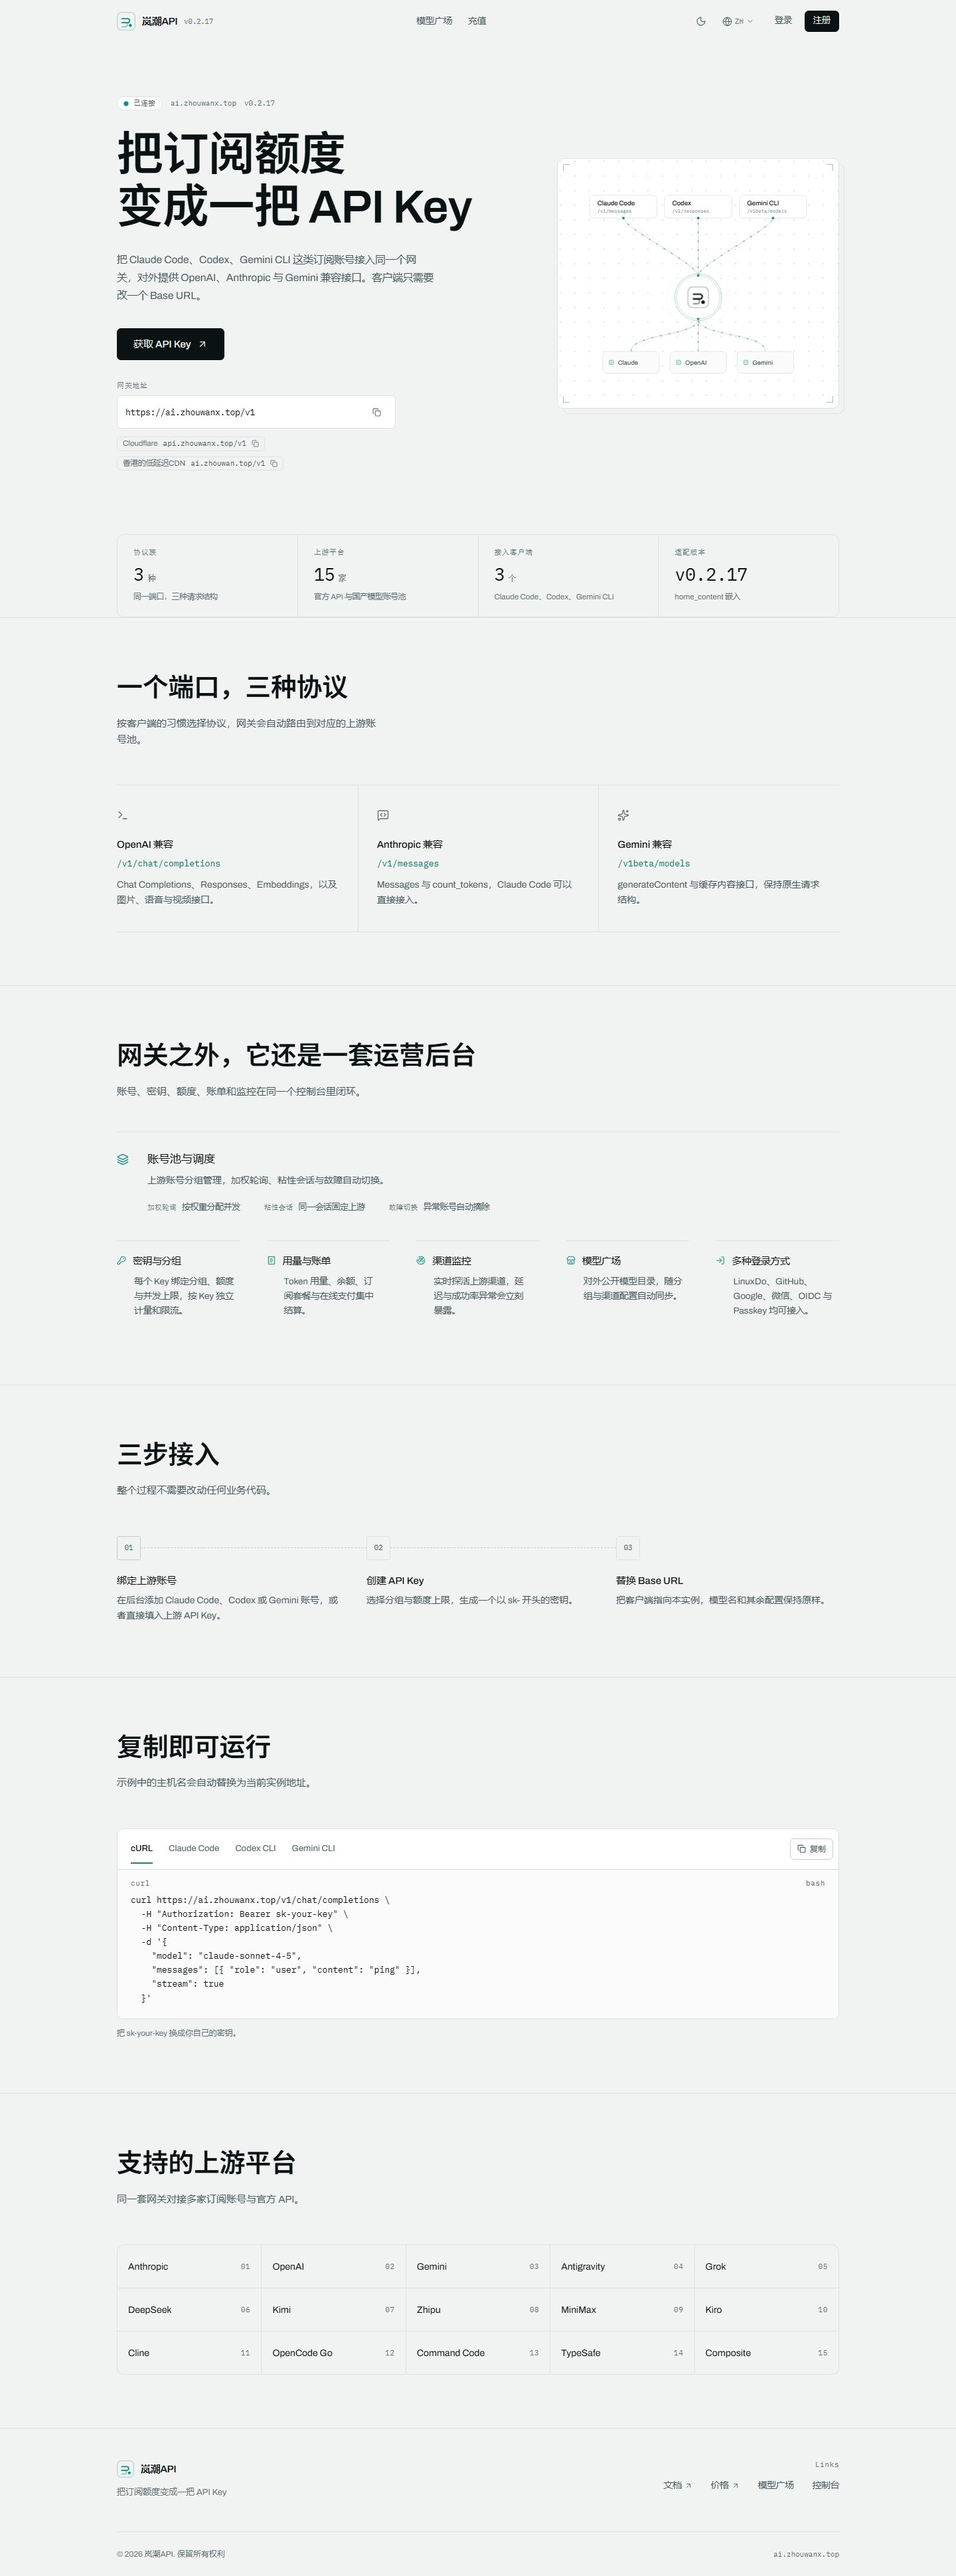
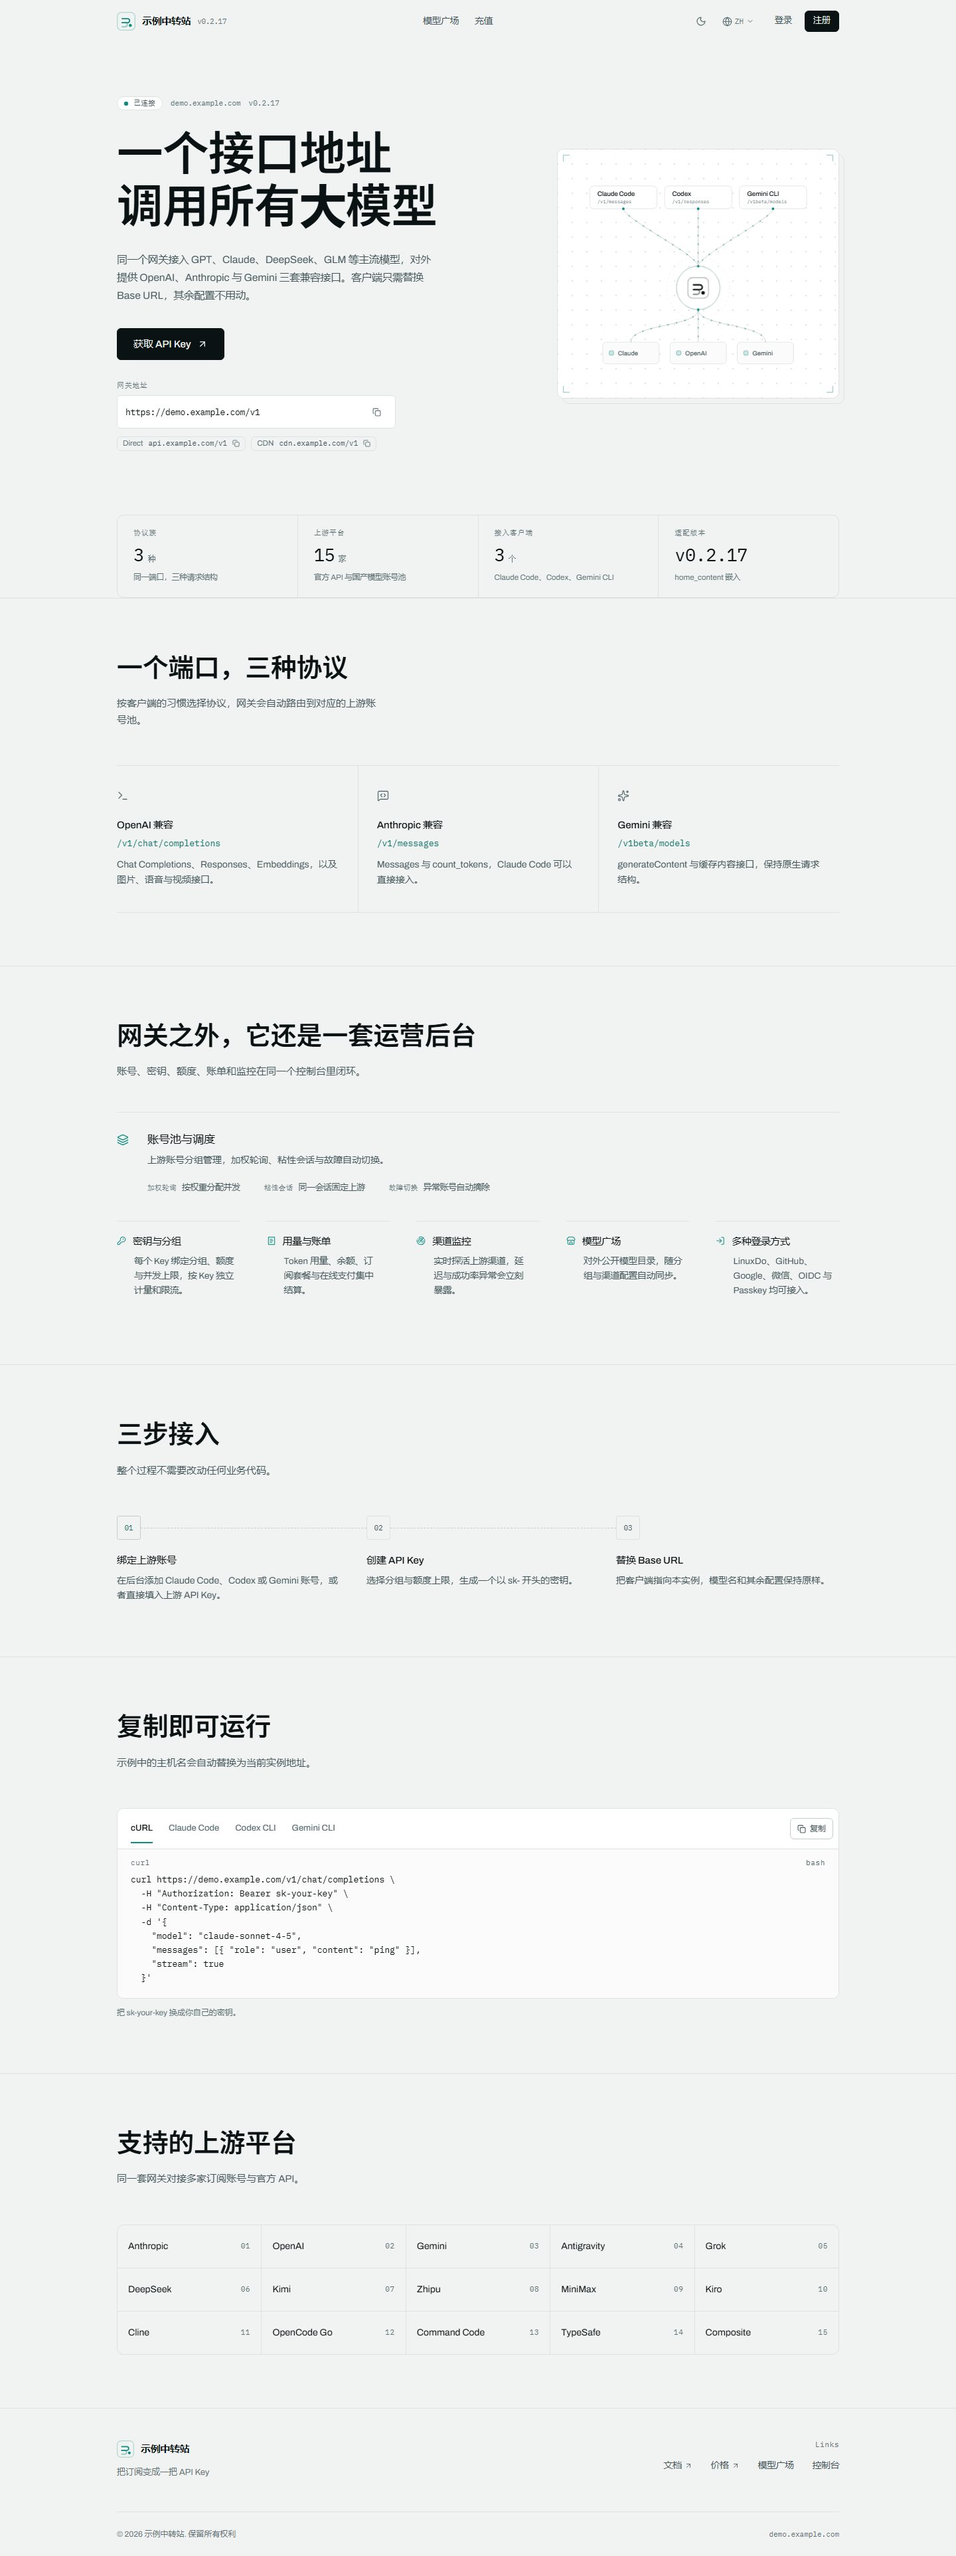
feat(copy): lead with the endpoint, not with a subscription
"把订阅额度 / 变成一把 API Key" is Sub2API's own pitch: it is addressed
to someone who already holds Claude Code / Codex / Gemini CLI seats and
wants to turn them into an API. This instance sells models by the token,
so a visitor arriving from the plaza has no subscription to convert and
the headline describes the wrong product.

The new line names what the reader gets instead: one endpoint, every
model. The lead loses the same framing — its first clause used to tell
the reader to plug in their subscription accounts, which contradicted
the headline directly below it. It now lists the model families actually
in the catalogue and keeps the one concrete benefit (swap a base URL).

Meta descriptions follow in all three locales. Screenshots regenerate;
the docs script now fast-forwards CSS animations so the hero schematic
is never captured half-drawn.

diff --git a/src/i18n/ja.ts b/src/i18n/ja.ts
@@ -3,7 +3,7 @@ import type { Dict } from './zh'
 export const ja: Dict = {
   meta: {
     title: 'Sub2API',
-    description: 'サブスクリプションをひとつの API にまとめるセルフホスト型ゲートウェイ',
+    description: 'GPT・Claude・DeepSeek・GLM をひとつの API で使えるゲートウェイ',
   },
   nav: {
     docs: 'ドキュメント',
@@ -19,8 +19,8 @@ export const ja: Dict = {
     close: '閉じる',
   },
   hero: {
-    titleLines: ['サブスクリプションを、', 'ひとつの API キーに'],
-    lead: 'Claude Code、Codex、Gemini CLI などのアカウントをひとつのゲートウェイに集約し、OpenAI・Anthropic・Gemini 互換の API として提供します。クライアント側の変更はベース URL だけです。',
+    titleLines: ['ひとつのエンドポイント', 'すべてのモデルに対応'],
+    lead: 'GPT、Claude、DeepSeek、GLM などのモデルをひとつのゲートウェイに集約し、OpenAI・Anthropic・Gemini 三系統の互換 API として提供します。クライアント側はベース URL を差し替えるだけで、ほかの設定はそのまま使えます。',
     ctaPrimary: 'API キーを取得',
     statusConnecting: 'インスタンスを検出中',
     statusLive: '接続済み',

diff --git a/src/i18n/zh.ts b/src/i18n/zh.ts
@@ -1,7 +1,7 @@
 export const zh = {
   meta: {
     title: 'Sub2API',
-    description: '把订阅账号变成统一 AI 接口的自建网关',
+    description: '一个地址调用 GPT、Claude、DeepSeek、GLM 的统一 AI 接口',
   },
   nav: {
     docs: '文档',
@@ -17,9 +17,9 @@ export const zh = {
     close: '关闭',
   },
   hero: {
-    // Split on purpose: a single string lets the browser break inside 变成.
-    titleLines: ['把订阅额度', '变成一把 API Key'],
-    lead: '把 Claude Code、Codex、Gemini CLI 这类订阅账号接入同一个网关，对外提供 OpenAI、Anthropic 与 Gemini 兼容接口。客户端只需要改一个 Base URL。',
+    // Split on purpose: a single string lets the browser break inside 调用.
+    titleLines: ['一个接口地址', '调用所有大模型'],
+    lead: '同一个网关接入 GPT、Claude、DeepSeek、GLM 等主流模型，对外提供 OpenAI、Anthropic 与 Gemini 三套兼容接口。客户端只需替换 Base URL，其余配置不用动。',
     ctaPrimary: '获取 API Key',
     statusConnecting: '正在识别实例',
     statusLive: '已连接',

diff --git a/src/i18n/en.ts b/src/i18n/en.ts
@@ -3,7 +3,7 @@ import type { Dict } from './zh'
 export const en: Dict = {
   meta: {
     title: 'Sub2API',
-    description: 'A self-hosted gateway that turns AI subscriptions into one API',
+    description: 'One endpoint for GPT, Claude, DeepSeek and GLM, in a single API',
   },
   nav: {
     docs: 'Docs',
@@ -19,8 +19,8 @@ export const en: Dict = {
     close: 'Close',
   },
   hero: {
-    titleLines: ['Turn a subscription', 'into an API key'],
-    lead: 'Bring Claude Code, Codex and Gemini CLI accounts into one gateway that speaks OpenAI, Anthropic and Gemini. Clients only change a base URL.',
+    titleLines: ['One endpoint', 'for every model'],
+    lead: 'One gateway to GPT, Claude, DeepSeek and GLM, speaking all three of OpenAI, Anthropic and Gemini. Clients swap a base URL and leave the rest of their config alone.',
     ctaPrimary: 'Get an API key',
     statusConnecting: 'Detecting instance',
     statusLive: 'Connected',
